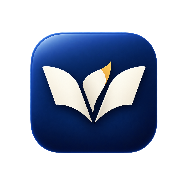
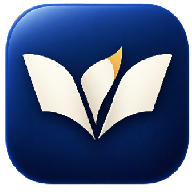
Add files via upload
melhorias na navegação das páginas e ajuste dos ícones

diff --git a/index.html b/index.html
@@ -422,16 +422,26 @@ body.reader-open .search-bar{display:none!important}
 .page-number{height:20px;text-align:center;font:11px var(--ui-font);color:var(--muted);padding-top:8px}
 .page-text mark{background:#f3d76a;color:inherit;padding:0 .08em;border-radius:3px}
 .annotation-quote{background:color-mix(in srgb,#a8c6ff 36%,transparent);border-radius:3px}
-.annotation-note{outline:2px solid color-mix(in srgb,#c58cff 32%,transparent);outline-offset:1px;border-radius:3px}
+.annotation-note{
+  background:color-mix(in srgb,#c58cff 18%,transparent);border-bottom:2px solid #9c63c9;
+  border-radius:3px;cursor:pointer;position:relative;padding-right:.18em;
+}
+.annotation-note::after{content:'◦';font-family:var(--ui-font);font-weight:900;color:#7d3ea9;font-size:1.05em;vertical-align:super;margin-left:.08em}
+.annotation-highlight{cursor:pointer}
 
 /* PDF Layout & TextLayer */
-.pdf-page-wrap{display:flex;align-items:center;justify-content:center;height:100%;width:100%;background:#fff;}
-.pdf-page-inner{position:relative;max-width:100%;max-height:100%;}
-.pdf-page-inner canvas{width:100%;height:100%;object-fit:contain;display:block;}
+.pdf-page-wrap{display:flex;align-items:flex-start;justify-content:center;min-height:100%;width:100%;padding:8px;background:#fff;overflow:visible;}
+.pdf-page-inner{position:relative;width:max-content;max-width:none;box-shadow:0 2px 10px rgba(0,0,0,.12);}
+.pdf-page-inner canvas{display:block;}
 .pdf-text-layer{position:absolute;inset:0;overflow:hidden;color:transparent;line-height:1;}
 .pdf-text-layer span{position:absolute;white-space:pre;cursor:text;transform-origin:0 0;}
-.pdf-text-layer mark{background:var(--hl-color, var(--accent));color:transparent;border-radius:3px;}
-::selection{background:rgba(40,120,255,0.4);color:transparent;}
+.pdf-annotation-layer{position:absolute;inset:0;pointer-events:none;overflow:hidden;}
+.pdf-annotation-highlight,.pdf-annotation-quote{position:absolute;border-radius:3px;pointer-events:none;mix-blend-mode:multiply;}
+.pdf-annotation-highlight{background:var(--hl-color,#f3d76a);opacity:.62;}
+.pdf-annotation-quote{background:rgba(168,198,255,.5);}
+.pdf-note-indicator{position:absolute;width:22px;height:22px;border-radius:50%;display:grid;place-items:center;background:#7d3ea9;color:#fff;border:2px solid #fff;box-shadow:0 2px 7px rgba(0,0,0,.22);font:700 14px var(--ui-font);pointer-events:auto;cursor:pointer;}
+.page-text::selection{background:rgba(40,120,255,.34);color:inherit;}
+.pdf-text-layer::selection{background:rgba(40,120,255,.42);color:rgba(0,0,0,.82);}
 
 .pdf-loading{
   display:flex;align-items:center;justify-content:center;height:100%;width:100%;
@@ -440,6 +450,27 @@ body.reader-open .search-bar{display:none!important}
 .pdf-loading .spinner{width:26px;height:26px;border-width:2px;margin:0}
 
 .reader-stage,.page,.page-text{user-select:text;-webkit-user-select:text}
+.reader-stage{-webkit-touch-callout:none}
+
+/* Comentários e ações de marcação dentro da leitura */
+.annotation-pop{
+  position:fixed;z-index:270;display:none;width:min(330px,calc(100vw - 28px));
+  padding:14px;border:1px solid var(--border);border-radius:16px;background:var(--surface);
+  color:var(--text);box-shadow:0 14px 38px rgba(0,0,0,.22);
+}
+.annotation-pop.show{display:block;animation:popIn .16s ease-out}
+@keyframes popIn{from{opacity:0;transform:translateY(5px) scale(.98)}to{opacity:1;transform:none}}
+.annotation-pop-label{font-size:10px;text-transform:uppercase;letter-spacing:.09em;color:var(--muted);font-weight:800;margin-bottom:5px}
+.annotation-pop-quote{font:italic 14px/1.45 var(--reader-font);max-height:72px;overflow:auto;margin-bottom:8px}
+.annotation-pop-note{font-size:13px;line-height:1.45;padding:9px 10px;border-radius:10px;background:var(--surface-2);margin-bottom:10px;white-space:pre-wrap}
+.annotation-pop-actions{display:flex;justify-content:flex-end;gap:7px}
+.annotation-pop-actions button{min-height:36px;padding:0 10px;border-radius:9px;font-size:12px;font-weight:800}
+.annotation-pop-actions .danger{color:#b42336;background:color-mix(in srgb,#b42336 10%,var(--surface))}
+
+/* A página anterior gira para dar uma sensação de folha, sem comprometer a seleção de texto. */
+.slider-book{perspective:1800px}
+.page.turning-left{z-index:6!important;visibility:visible!important;transform:rotateY(-88deg)!important;transform-origin:left center;opacity:.45!important;pointer-events:none}
+.page.turning-right{z-index:6!important;visibility:visible!important;transform:rotateY(88deg)!important;transform-origin:right center;opacity:.45!important;pointer-events:none}
 
 .reader-ui{
   position:absolute;inset:0;display:flex;flex-direction:column;justify-content:space-between;
@@ -929,6 +960,9 @@ body.reader-open .search-bar{display:none!important}
   <button id="sel-note"><i data-lucide="sticky-note" style="width:14px;height:14px"></i>Anotar</button>
   <button id="sel-share"><i data-lucide="share-2" style="width:14px;height:14px"></i>Enviar</button>
 </div>
+
+<!-- Comentário ou ação de marcação contextual dentro da página -->
+<div class="annotation-pop" id="annotation-pop" role="dialog" aria-live="polite"></div>
 
 <!-- BACKDROP -->
 <div class="backdrop" id="backdrop"></div>
@@ -1441,7 +1475,9 @@ class PDFParser{
     try {
       const page = await pdf.getPage(pageNumber);
       const base = page.getViewport({scale: 1});
-      const scale = Math.min(maxW / base.width, maxH / base.height) * 0.98;
+      // Prioriza a largura. Em telas estreitas, a leitura continua em rolagem vertical
+      // em vez de reduzir a página até ela ficar ilegível para caber na altura.
+      const scale = Math.max(0.1, (maxW - 16) / base.width);
       const viewport = page.getViewport({scale});
 
       const canvas = document.createElement('canvas');
@@ -1483,6 +1519,9 @@ class PDFParser{
       inner.style.height = canvas.style.height;
       inner.appendChild(canvas);
       inner.appendChild(textLayer);
+      const annotationLayer = document.createElement('div');
+      annotationLayer.className = 'pdf-annotation-layer';
+      inner.appendChild(annotationLayer);
 
       wrapNode.innerHTML = '';
       wrapNode.appendChild(inner);
@@ -1582,6 +1621,7 @@ class ReaderEngine{
     this.ui=document.getElementById('reader-ui');
     this.navigating=false;this.uiTimer=null;
     this.pendingSelection=null;this.selectedHighlightColor='#f3d76a';
+    this.annotationPressTimer=null;this.activeAnnotationId=null;
     this.persistProgressDebounced=Utils.debounce(i=>this.persistProgress(i),900);
     this.bind();
   }
@@ -1625,6 +1665,11 @@ class ReaderEngine{
 
     document.addEventListener('mouseup',()=>setTimeout(()=>this.captureSelection(),0));
     document.addEventListener('touchend',()=>setTimeout(()=>this.captureSelection(),40),{passive:true});
+    // Remove o menu/contexto do navegador somente dentro do leitor: o menu do app
+    // continua sendo a única ação apresentada depois da seleção.
+    this.readerStage.addEventListener('contextmenu',e=>e.preventDefault());
+    this.readerStage.addEventListener('pointerdown',e=>this.startAnnotationPress(e));
+    ['pointerup','pointercancel','pointerleave'].forEach(type=>this.readerStage.addEventListener(type,()=>this.cancelAnnotationPress()));
     window.addEventListener('resize',Utils.debounce(()=>{
       if(this.currentBook&&document.getElementById('view-reader').classList.contains('active'))this.triggerRePagination();
     },350));
@@ -1831,6 +1876,8 @@ class ReaderEngine{
     this.container.addEventListener('touchend', e => {
         if(!isDragging) return;
         isDragging = false;
+        const selection=window.getSelection();
+        if(selection&&!selection.isCollapsed&&String(selection).trim())return;
         const delta = startX - currentX;
         if (Math.abs(delta) > 50) {
             if(delta > 0) this.flip(1);
@@ -1846,6 +1893,13 @@ class ReaderEngine{
     // Tratamento para cliques no desktop
     this.container.addEventListener('click', e => {
         if(e.target.closest('.reader-ui')) return;
+        const annotationTarget=e.target.closest('[data-annotation-id]');
+        if(annotationTarget){
+            e.stopPropagation();
+            this.openAnnotationPopover(annotationTarget.dataset.annotationId,annotationTarget.getBoundingClientRect());
+            return;
+        }
+        if(e.target.closest('#annotation-pop')) return;
         const sel = window.getSelection();
         if(sel && !sel.isCollapsed && String(sel).trim()) return;
         if(e.pointerType === 'mouse') {
@@ -1861,14 +1915,24 @@ class ReaderEngine{
   
   turnToPage(index){
     if(this.sliderBook && index >= 0 && index < this.pagesData.length) {
+       const previousIndex=this.currentPageIndex;
+       const direction=index-previousIndex;
+       const previousPage=this.container.querySelector(`.page[data-page="${previousIndex}"]`);
+       const shouldAnimate=this.container.dataset.started==='1';
        this.currentPageIndex = index;
        const pages = this.container.querySelectorAll('.page');
        pages.forEach((p, i) => {
-           p.classList.remove('active', 'prev', 'next');
-           if(i === index) p.classList.add('active');
-           else if(i < index) p.classList.add('prev');
-           else p.classList.add('next');
+            p.classList.remove('active', 'prev', 'next', 'turning-left', 'turning-right');
+            if(i === index) p.classList.add('active');
+            else if(i < index) p.classList.add('prev');
+            else p.classList.add('next');
        });
+       if(shouldAnimate&&previousPage&&direction!==0){
+         previousPage.classList.add(direction>0?'turning-left':'turning-right');
+         window.setTimeout(()=>previousPage.classList.remove('turning-left','turning-right'),520);
+       }
+       this.container.dataset.started='1';
+       this.hideAnnotationPopover();
        
        this.updateProgressText(index);
        this.persistProgressDebounced(index);
@@ -1958,6 +2022,69 @@ class ReaderEngine{
     pop.classList.add('show');
   }
   hideSelectionPop(){document.getElementById('selection-pop').classList.remove('show')}
+  startAnnotationPress(event){
+    const target=event.target.closest?.('[data-annotation-id]');
+    if(!target||!target.classList.contains('annotation-highlight'))return;
+    this.cancelAnnotationPress();
+    this.annotationPressTimer=window.setTimeout(()=>{
+      if(navigator.vibrate)navigator.vibrate(18);
+      this.openAnnotationPopover(target.dataset.annotationId,target.getBoundingClientRect());
+    },560);
+  }
+  cancelAnnotationPress(){
+    if(this.annotationPressTimer){window.clearTimeout(this.annotationPressTimer);this.annotationPressTimer=null;}
+  }
+  hideAnnotationPopover(){
+    const pop=document.getElementById('annotation-pop');
+    if(pop)pop.classList.remove('show');
+    this.activeAnnotationId=null;
+  }
+  openAnnotationPopover(annotationId,rect){
+    const annotation=this.currentBook?.annotations?.find(a=>a.id===annotationId);
+    if(!annotation)return;
+    this.hideSelectionPop();
+    this.activeAnnotationId=annotationId;
+    const pop=document.getElementById('annotation-pop');
+    pop.innerHTML='';
+    const label=document.createElement('div');label.className='annotation-pop-label';
+    label.textContent=annotation.type==='note'?'Comentário':'Grifo';
+    const quote=document.createElement('div');quote.className='annotation-pop-quote';
+    quote.textContent=`“${annotation.text||''}”`;
+    pop.append(label,quote);
+    if(annotation.type==='note'){
+      const note=document.createElement('div');note.className='annotation-pop-note';note.textContent=annotation.note||'Sem comentário';pop.appendChild(note);
+    }
+    const actions=document.createElement('div');actions.className='annotation-pop-actions';
+    if(annotation.type==='note'){
+      const edit=document.createElement('button');edit.type='button';edit.textContent='Editar';
+      edit.onclick=()=>this.editAnnotationFromPopover(annotation);actions.appendChild(edit);
+    }
+    const remove=document.createElement('button');remove.type='button';remove.className='danger';
+    remove.textContent=annotation.type==='note'?'Apagar':'Remover grifo';
+    remove.onclick=()=>this.deleteAnnotationFromPopover(annotation);actions.appendChild(remove);
+    pop.appendChild(actions);
+    const width=Math.min(330,window.innerWidth-28);
+    const desiredLeft=Math.max(14,Math.min(window.innerWidth-width-14,rect.left+rect.width/2-width/2));
+    const desiredTop=Math.max(70,Math.min(window.innerHeight-pop.offsetHeight-14,rect.bottom+10));
+    pop.style.left=`${desiredLeft}px`;pop.style.top=`${desiredTop}px`;pop.classList.add('show');
+  }
+  editAnnotationFromPopover(annotation){
+    this.hideAnnotationPopover();
+    document.getElementById('selected-preview').innerHTML=`<div class="item-type">Trecho comentado</div><div class="item-text">“${Utils.esc(annotation.text)}”</div><div class="item-meta">Página ${annotation.pageIndex+1} de ${this.pagesData.length}</div>`;
+    document.getElementById('note-text').value=annotation.note||'';
+    const save=document.getElementById('btn-save-note');
+    save.dataset.editId=annotation.id;save.dataset.bookId=this.currentBook.id;
+    App.openPanel('panel-note');
+  }
+  async deleteAnnotationFromPopover(annotation){
+    const message=annotation.type==='note'?'Apagar este comentário?':'Remover este grifo?';
+    if(!confirm(message))return;
+    await this.db.deleteAnnotation(this.currentBook.id,annotation.id);
+    this.currentBook=await this.db.getBook(this.currentBook.id);
+    this.hideAnnotationPopover();
+    this.applyAnnotationsToRenderedPage(annotation.pageIndex);
+    Utils.toast(annotation.type==='note'?'Comentário apagado.':'Grifo removido.','trash');
+  }
   async saveSelection(type){
     if(!this.pendingSelection||!this.currentBook)return;
     const s=this.pendingSelection;
@@ -2034,15 +2161,15 @@ class ReaderEngine{
   applyAnnotationsToRenderedPage(pageIndex){
     const page=document.querySelector(`.page[data-page="${pageIndex}"] .page-text`) || document.querySelector(`.page[data-page="${pageIndex}"] .pdf-text-layer`);
     if(!page||!this.currentBook)return;
+    if(page.classList.contains('pdf-text-layer')){
+      this.applyPdfAnnotations(page,pageIndex);
+      return;
+    }
     page.querySelectorAll('[data-annotation-mark]').forEach(e=>e.replaceWith(...e.childNodes));
-    const anns=this.currentBook.annotations.filter(a=>a.pageIndex===pageIndex&&a.type!=='note');
-    anns.sort((a,b)=>(b.start||0)-(a.start||0)).forEach(a=>{
-      this.wrapTextRange(page,a.start||0,a.end||0,a.type==='highlight'?'HIGHLIGHT':'QUOTE');
-    });
-    const notes=this.currentBook.annotations.filter(a=>a.pageIndex===pageIndex&&a.type==='note');
-    notes.forEach(a=>this.wrapTextRange(page,a.start||0,a.end||0,'NOTE'));
+    const anns=this.currentBook.annotations.filter(a=>a.pageIndex===pageIndex);
+    anns.sort((a,b)=>(b.start||0)-(a.start||0)).forEach(a=>this.wrapTextRange(page,a));
   }
-  wrapTextRange(root,start,end,type){
+  rangeForOffsets(root,start,end){
     if(end<=start)return;
     const walker=document.createTreeWalker(root,NodeFilter.SHOW_TEXT);
     let pos=0,sp=null,so=0,ep=null,eo=0,node;
@@ -2052,25 +2179,52 @@ class ReaderEngine{
       if(end>=pos&&end<=next){ep=node;eo=end-pos;break}
       pos=next;
     }
-    if(!sp||!ep)return;
+    if(!sp||!ep)return null;
     const range=document.createRange();
     range.setStart(sp,so);range.setEnd(ep,eo);
+    return range;
+  }
+  wrapTextRange(root,annotation){
+    const range=this.rangeForOffsets(root,annotation.start||0,annotation.end||0);
+    if(!range)return;
+    const type=annotation.type==='highlight'?'HIGHLIGHT':annotation.type==='quote'?'QUOTE':'NOTE';
     const mark=document.createElement(type==='HIGHLIGHT'?'mark':'span');
     mark.dataset.annotationMark='1';
+    mark.dataset.annotationId=annotation.id;
     mark.className=type==='QUOTE'?'annotation-quote':type==='NOTE'?'annotation-note':'';
     if(type==='HIGHLIGHT'){
-      const a=(this.currentBook?.annotations||[]).find(x=>
-        x.pageIndex===Number(root.closest('.page')?.dataset.page||-1)&&x.start===start&&x.end===end);
-      
-      const isPdf = root.classList.contains('pdf-text-layer');
-      if (isPdf) {
-         mark.style.setProperty('--hl-color', a?.color||'#f3d76a');
-      } else {
-         mark.style.background=a?.color||'#f3d76a';
-         mark.style.color='inherit';
-      }
+      mark.classList.add('annotation-highlight');
+      mark.style.background=annotation.color||'#f3d76a';
+      mark.style.color='inherit';
     }
     try{range.surroundContents(mark)}catch(e){}
+  }
+  applyPdfAnnotations(textLayer,pageIndex){
+    const layer=textLayer.parentElement.querySelector('.pdf-annotation-layer');
+    if(!layer)return;
+    layer.innerHTML='';
+    const rootRect=textLayer.getBoundingClientRect();
+    const annotations=this.currentBook.annotations.filter(a=>a.pageIndex===pageIndex);
+    annotations.forEach(annotation=>{
+      const range=this.rangeForOffsets(textLayer,annotation.start||0,annotation.end||0);
+      if(!range)return;
+      const rects=Array.from(range.getClientRects()).filter(r=>r.width&&r.height);
+      rects.forEach((rect,index)=>{
+        if(annotation.type==='note'&&index>0)return;
+        const el=document.createElement(annotation.type==='note'?'button':'span');
+        if(annotation.type==='note'){
+          el.type='button';el.className='pdf-note-indicator';el.textContent='•';
+          el.dataset.annotationId=annotation.id;el.setAttribute('aria-label','Abrir comentário');
+          el.style.left=`${rect.right-rootRect.left-8}px`;el.style.top=`${rect.top-rootRect.top-8}px`;
+        }else{
+          el.className=annotation.type==='highlight'?'pdf-annotation-highlight':'pdf-annotation-quote';
+          el.style.left=`${rect.left-rootRect.left}px`;el.style.top=`${rect.top-rootRect.top}px`;
+          el.style.width=`${rect.width}px`;el.style.height=`${rect.height}px`;
+          if(annotation.type==='highlight')el.style.setProperty('--hl-color',annotation.color||'#f3d76a');
+        }
+        layer.appendChild(el);
+      });
+    });
   }
   async triggerRePagination(){
     if(!this.currentBook)return;
@@ -2946,6 +3100,11 @@ document.addEventListener('click',e=>{
   const p=document.getElementById('selection-pop');
   if(p.classList.contains('show')&&!e.target.closest('#selection-pop')){
     setTimeout(()=>p.classList.remove('show'),120);
+  }
+  const annotationPop=document.getElementById('annotation-pop');
+  if(annotationPop.classList.contains('show')&&!e.target.closest('#annotation-pop')&&!e.target.closest('[data-annotation-id]')){
+    annotationPop.classList.remove('show');
+    if(App.reader)App.reader.activeAnnotationId=null;
   }
 });
 window.addEventListener('load',()=>App.init());
